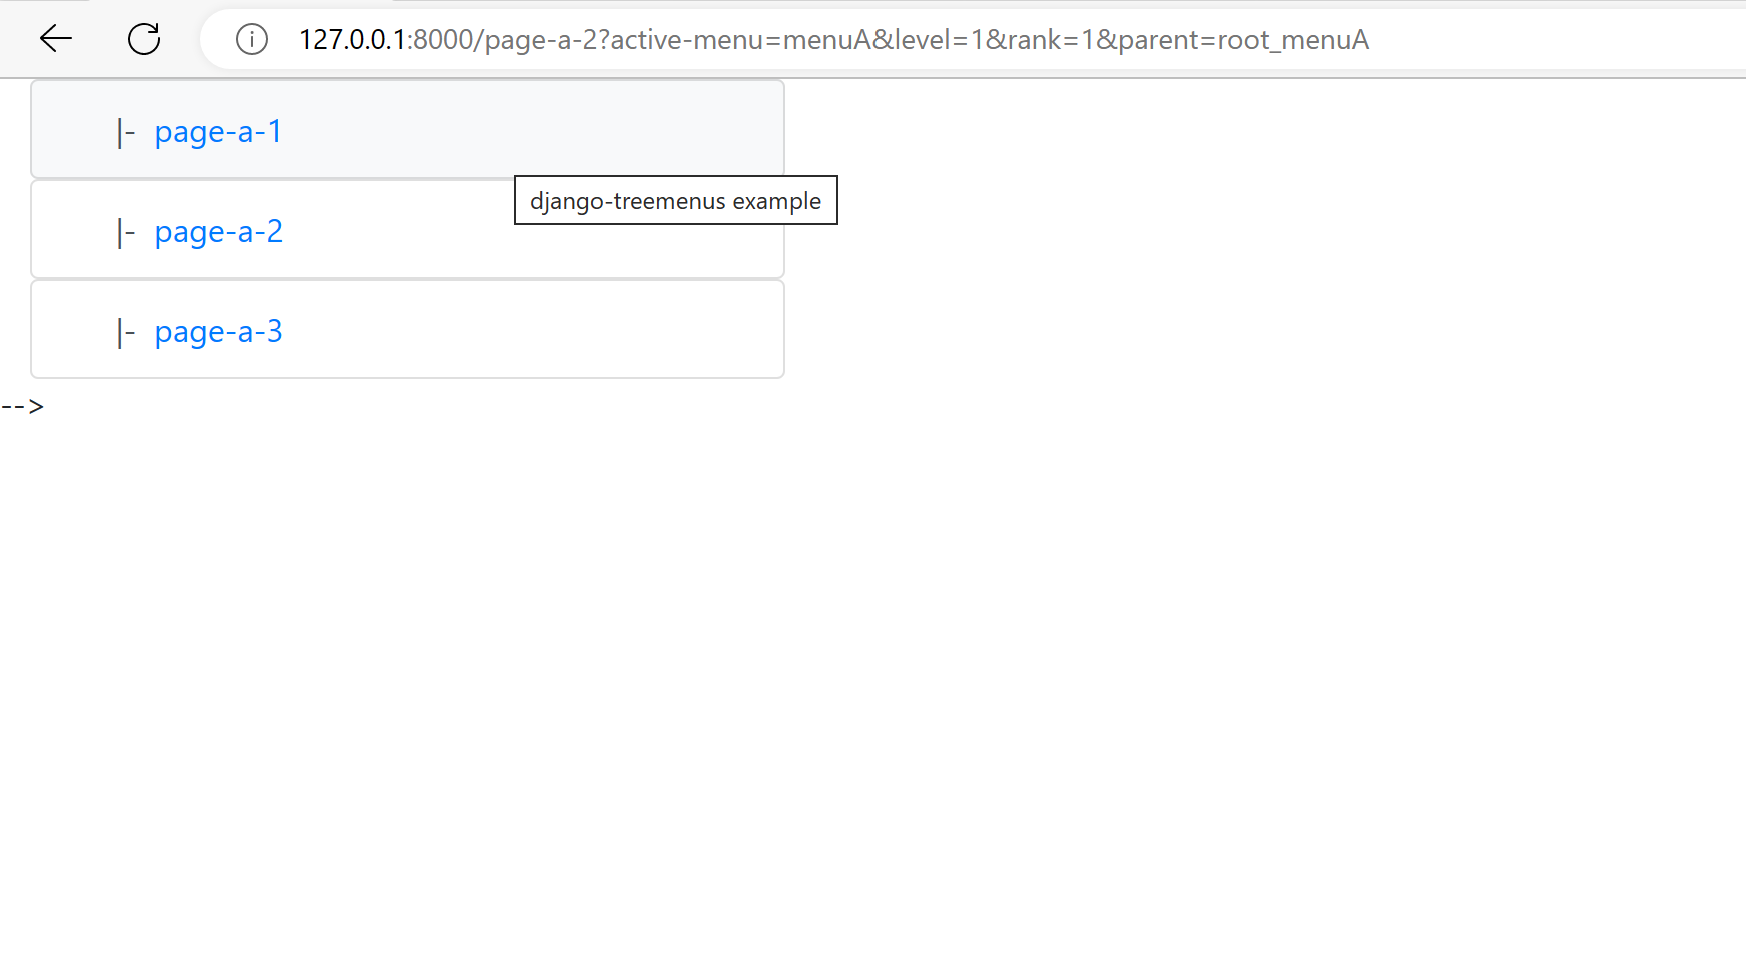
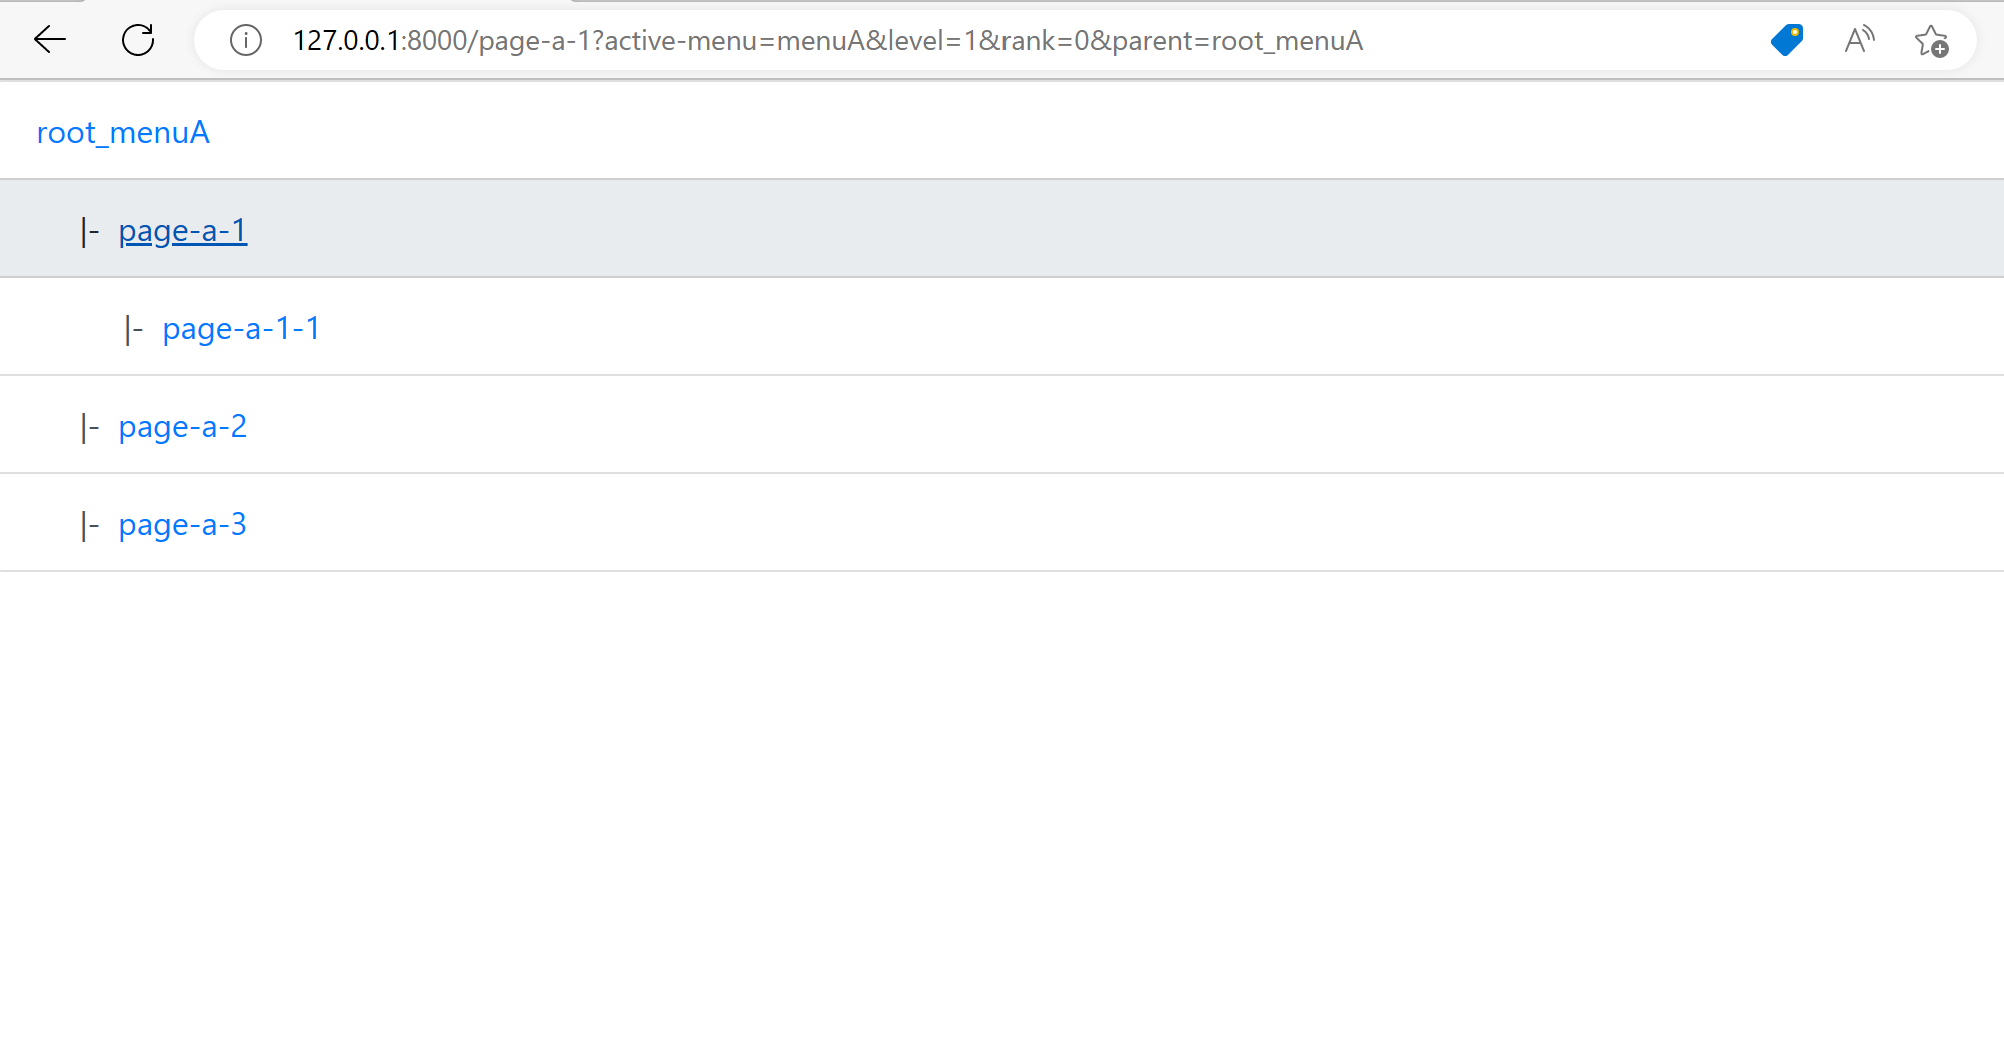
Dynamic menu

diff --git a/treemenuproj/treemenu/templates/menu.html b/treemenuproj/treemenu/templates/menu.html
@@ -1,26 +1,64 @@
 {% load tags %}
 
-<ul class="list-group">
-	{% for menu_item in menu_items_fl_to_draw %}
-	<div class="col-4">
-		<li class="list-group-item list-group-item-action">
-			{{ menu_item.spacer | safe }} <a href='{% if menu_item.url != "" %}{{ menu_item.url }}{% else %}{% url menu_item.named_url %}{% endif %}?active-menu={{ menu_name }}&level={{ menu_item.level }}&rank={{ menu_item.rank }}&parent={{ menu_item.parent }}'> {{ menu_item.caption }}</a>
-		</li>
-	</div>
-	{% endfor %}
 
-</ul>
+<body>
+	<nav>
+		<ul class="list-group" id="menu">
+			{% for menu_item in menu_items %}
+				<li class="list-group-item list-group-item-action">
+					{{ menu_item.spacer | safe }} <a href='{% if menu_item.url != "" %}{{ menu_item.url }}{% elif menu_item.named_url != "" %}{% url menu_item.named_url %}{% else %}{% url "index" %}{% endif %}?active-menu={{ menu_name }}&level={{ menu_item.level }}&rank={{ menu_item.rank }}&parent={{ menu_item.parent }}'> {{ menu_item.caption }}</a>
+				</li>
+			{% endfor %}
+		</ul>
+	</nav>
 
+	<script src="static/django_js_logger/logger.js"></script>
 
-<!-- <ul>
-	{% for menu_item in menu_items_fl_to_draw %}
+	<script>
+		function expandMenuTree() {
+			var pathname = window.location.pathname;
+			var path = window.location.href.split('?')
+			var activeMenu = path[1].split('&')[0].split('=')[1];
+			var activeName = path[0].split('/')[3];
+			var activeLevel = path[1].split('&')[1].split('=')[1];
+			var activeRank = path[1].split('&')[2].split('=')[1];
+			var activeParent = path[1].split('&')[3].split('=')[1];
+
+			var menuItems = document.querySelectorAll("li");
+
+			var i = 0;
+			var flag = false;
+			while (i < menuItems.length) {
+				var item = menuItems[i];
+				var itemHref = item.children[0].href;
+
+				var itemPath = itemHref.split('?');
+				var itemMenu = itemPath[1].split('&')[0].split('=')[1];
+				var itemName = itemPath[0].split('/')[3];
+				var itemLevel = itemPath[1].split('&')[1].split('=')[1];
+				var itemRank = itemPath[1].split('&')[2].split('=')[1];
+				var itemParent = itemPath[1].split('&')[3].split('=')[1];
+				
+				if (itemParent == activeParent) {
+					flag = true;
+				} 
+				else if (parseInt(activeLevel) == 0) {
+					// pass
+				} 
+				else if (parseInt(itemLevel) == 1) {
+					// pass
+				} 
+				else if (flag && (activeName == itemParent)) {
+					// pass
+				} 
+				else if (flag && (activeParent != itemParent)) {
+					item.remove()
+				} 
+				i++;
+			}
+		}
 		
-		{% if do_draw == None %}
-			{% draw_menu_item menu_item %}
-		{% else %}
-			{% draw_menu_item menu_item do_draw %}
-		{% endif %}
+		expandMenuTree();
+	</script>
 
-	{% endfor %}
-
-</ul> -->
+</body>

diff --git a/treemenuproj/treemenu/templates/index.html b/treemenuproj/treemenu/templates/index.html
@@ -1,3 +1,5 @@
+<!DOCTYPE html>
+
 <html title="django-treemenus example">
 <link rel="stylesheet" href="https://cdn.jsdelivr.net/npm/bootstrap@4.3.1/dist/css/bootstrap.min.css" integrity="sha384-ggOyR0iXCbMQv3Xipma34MD+dH/1fQ784/j6cY/iJTQUOhcWr7x9JvoRxT2MZw1T" crossorigin="anonymous">
 <body>

diff --git a/treemenuproj/treemenu/templatetags/tags.py b/treemenuproj/treemenu/templatetags/tags.py
@@ -4,76 +4,35 @@ from typing import Optional
 from django import template
 from django.template import RequestContext
 
-from treemenu.models import Menu, MenuItem
+from treemenu.models import Menu
 from treemenu.config import APP_LABEL
 from treemenuproj.settings import BASE_DIR
 
 register = template.Library()
 
 
-# @register.simple_tag()
-# def update_variable(value):
-#     return value
-
-
 def draw_menu(context: RequestContext, menu_name: str) -> RequestContext:
     if context.request.method == 'GET' and 'active-menu' in context.request.GET:
-        active_menu = context.request.GET["active-menu"]
         active_level = int(context.request.GET["level"])
         active_rank = int(context.request.GET["rank"])
-        active_parent = context.request.GET["parent"]
     else:
-        active_menu, active_level, active_rank, active_parent = None, None, None, None
+        active_level, active_rank = None, None
 
     menu_items_fl = Menu.objects.get(name=menu_name).root_item.get_flattened()
 
     context['menu_name'] = menu_name
-    context['menu_items_fl'] = menu_items_fl
 
-    menu_items_fl_to_draw = []
-    # context[menu_name][node_caption] = []
+    menu_items = []
 
     for item in menu_items_fl:
         if active_level == None and active_rank == None:
             if item.caption == 'root_' + menu_name:
                 item.caption = menu_name
                 item.named_url = 'index'
-                menu_items_fl_to_draw.append(item)
+                menu_items.append(item)
                 break
-        
-        if active_level == 0 and active_rank == 0:
-            if item.level == 0:
-                continue
-            menu_items_fl_to_draw.append(item)
-            continue
+        menu_items.append(item)
 
-        if item.level == 1:
-            menu_items_fl_to_draw.append(item)
-            node_caption = item.caption
-            continue
-        
-        # if node_caption:
-        #     get_node_children(context, node_caption, menu_items_fl)
-        #     print(context[node_caption])
-
-    context['menu_items_fl_to_draw'] = menu_items_fl_to_draw
+    context['menu_items'] = menu_items
     return context
 register.inclusion_tag(Path(BASE_DIR, APP_LABEL, 'templates', 'menu.html'), takes_context=True)(draw_menu)
-
-
-def draw_menu_item(context: RequestContext, menu_item: MenuItem, do_draw: Optional[bool]=None) -> RequestContext:
-#     print('Call draw menu item')
-
-#     if not isinstance(menu_item, MenuItem):
-#         error_message = 'Given argument must be a MenuItem object.'
-#         raise template.TemplateSyntaxError(error_message)
-
-#     context['menu_item'] = menu_item
-
-#     if (do_draw == None):
-#         context['do_draw'] = True    
-#     else:
-#         context['do_draw'] = do_draw
-#     print(context['do_draw'])
-    return context
-register.inclusion_tag(Path(BASE_DIR, APP_LABEL, 'templates', 'menu_item.html'), takes_context=True)(draw_menu_item)

diff --git a/treemenuproj/treemenuproj/urls.py b/treemenuproj/treemenuproj/urls.py
@@ -18,5 +18,5 @@ from django.urls import path, include
 
 urlpatterns = [
     path('admin/', admin.site.urls),
-    path('', include('treemenu.urls'))
+    path('', include('treemenu.urls')),
 ]

diff --git a/README.md b/README.md
@@ -1,6 +1,6 @@
 # TreeMenuDjangoApp
 
-TreeMenuDjangoApp is a Django app to draw a tree menu. This app could be used in more complex projects.
+TreeMenuDjangoApp is a Django app to draw a tree menu with basic frontend. This app could be used in more complex projects.
 
 ## Installation
 
@@ -20,9 +20,7 @@ Run the app as a standard Django project.
 * Active item determined through the active link.
 * There could be any number of tree menus on one page.
 * Only one request to the data base.
-
-Under development: 
-* Expanding menu items based on the selected item with Java Script. Now only the upper level is drawn by default.
+* Expanding menu items based on the selected item: all items above are expanded and all siblings are expanded.
 
 ## Notes
 
